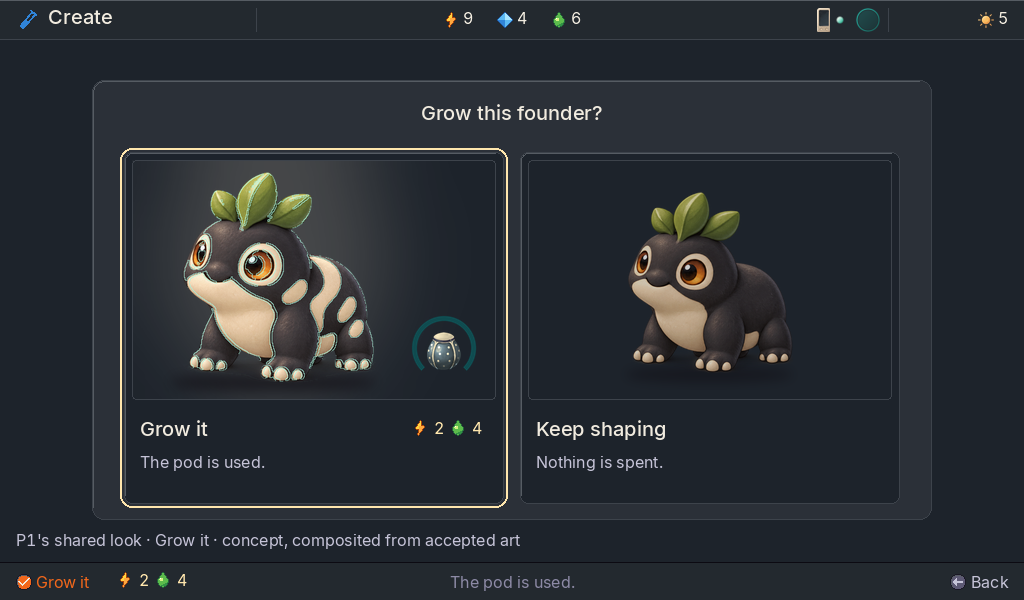
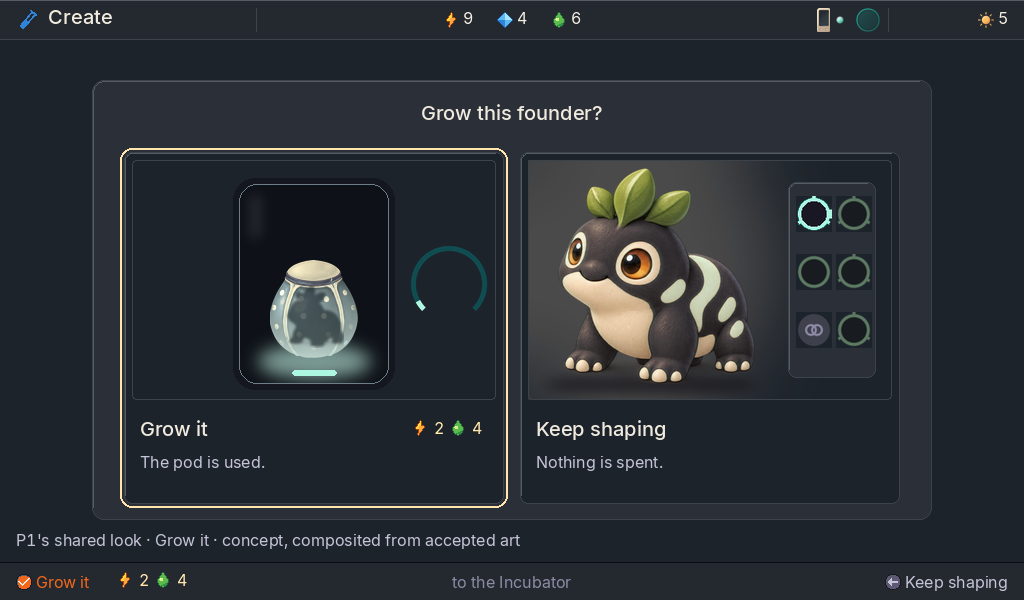
T-20261016-170: Grow paints two outcomes, light on the changed parts, the bottom line per T-181

diff --git a/results/T-20261016-170/make-p1.py b/results/T-20261016-170/make-p1.py
@@ -105,42 +105,84 @@ def scene_keep(w, h):
     return bg
 
 
-def scene_grow(w, h):
-    """Grow it: the founder you made, standing in the bench's scanning recess, lit; the parts you changed catch
-    the scan light (mint). The pod, sealed in its ring, goes to the Incubator."""
-    bg = Image.new('RGBA', (w, h), C['ground'] + (255,))
-    pool = Image.new('L', (w, h), 0)
-    ImageDraw.Draw(pool).ellipse((w // 2 - 150, -40, w // 2 + 70, h - 10), fill=46)
-    light = Image.new('RGBA', (w, h), (255, 236, 210, 0)); light.putalpha(pool.filter(ImageFilter.GaussianBlur(40)))
-    bg.alpha_composite(light)
-    made, plain = src('rich-marked-300x310.png'), src('rich-plain-300x310.png')
+def changed_light(made, plain, strength=0.42):
+    """The bench's scan light falling on the parts you changed: a soft mint wash over the changed areas,
+    computed from the made and plain founders (no outline, no glow beyond the part)."""
     diff = np.abs(np.asarray(made, dtype=int)[..., :3] - np.asarray(plain, dtype=int)[..., :3]).max(axis=2) > 40
-    m = Image.fromarray((diff * 255).astype('uint8')).filter(ImageFilter.MaxFilter(3))
-    edge = ImageChops.subtract(m, m.filter(ImageFilter.MinFilter(3)))
+    m = Image.fromarray((diff * 255).astype('uint8')).filter(ImageFilter.GaussianBlur(2.2))
     a = np.asarray(made, dtype=float)
-    e = np.asarray(edge, dtype=float)[..., None] / 255 * 0.7
-    a[..., :3] = a[..., :3] * (1 - e) + np.array(C['mint']) * e
-    made = Image.fromarray(np.clip(a, 0, 255).astype('uint8'), 'RGBA').crop(made.getbbox())
-    made = made.resize((round(made.width * 0.72), round(made.height * 0.72)), Image.LANCZOS)
-    px, py = (w - made.width) // 2 - 40, h - made.height - 14
-    sh = contact(made.width, 18, 0.65)
-    bg.alpha_composite(sh, (px + made.width // 2 - sh.width // 2, py + made.height - sh.height // 2 - 4))
-    bg.alpha_composite(made, (px, py))
+    k = np.asarray(m, dtype=float)[..., None] / 255 * strength * (a[..., 3:4] / 255)
+    lum = a[..., :3].mean(axis=2, keepdims=True) / 255
+    a[..., :3] = a[..., :3] + (np.array(C['mint']) - a[..., :3]) * k * (0.5 + 0.5 * lum)
+    return Image.fromarray(np.clip(a, 0, 255).astype('uint8'), 'RGBA')
+
+
+def scene_grow(w, h):
+    """Grow it: the made founder sealed into its pod, the pod clamped upright in the Incubator's candling chamber,
+    a recess of the slate face behind matte glass, at first candling light: the lamp below shines up through the
+    shell and the founder's form shows inside. Cool, dark, enclosed, the pod small in the chamber."""
+    bg = Image.new('RGBA', (w, h), C['ground'] + (255,))
+    d = ImageDraw.Draw(bg)
+    cx, cy, cw, chh = w // 2, h // 2 + 4, 150, 200
+    x0, y0 = cx - cw // 2, cy - chh // 2
+    d.rounded_rectangle((x0 - 6, y0 - 6, x0 + cw + 5, y0 + chh + 5), 22, fill=(20, 24, 30))      # the recess
+    d.rounded_rectangle((x0, y0, x0 + cw - 1, y0 + chh - 1), 18, fill=(14, 18, 24))              # the chamber
+    pod = loika_pod(sealed=True).resize((88, 112), Image.LANCZOS)
+    px, py = cx - 44, y0 + chh - 112 - 26
+    # candling: the lamp's light passing up through the shell, brightest at its base
+    a = np.asarray(pod, dtype=float)
+    yy = np.linspace(0, 1, a.shape[0])[:, None, None] ** 1.4
+    a[..., :3] = a[..., :3] + (np.array([226, 252, 242]) - a[..., :3]) * (0.78 * yy)
+    pod = Image.fromarray(np.clip(a, 0, 255).astype('uint8'), 'RGBA')
+    made = src('rich-marked-300x310.png')
+    made = made.crop(made.getbbox()).resize((60, 62), Image.LANCZOS)
+    sil = Image.new('RGBA', made.size, (34, 46, 50, 0)); sil.putalpha(made.getchannel('A').point(lambda v: int(v * 0.72)))
+    inner = Image.new('RGBA', pod.size, (0, 0, 0, 0)); inner.alpha_composite(sil.filter(ImageFilter.GaussianBlur(1.2)), (14, 40))
+    inner.putalpha(ImageChops.multiply(inner.getchannel('A'), pod.getchannel('A')))
+    pod.alpha_composite(inner)
+    # the lamp and its pool, inside the chamber only
+    pool = Image.new('L', (w, h), 0)
+    ImageDraw.Draw(pool).ellipse((cx - 56, y0 + chh - 40, cx + 56, y0 + chh - 6), fill=150)
+    lamp = Image.new('RGBA', (w, h), (200, 250, 236, 0)); lamp.putalpha(pool.filter(ImageFilter.GaussianBlur(8)))
+    clip = Image.new('L', (w, h), 0); ImageDraw.Draw(clip).rounded_rectangle((x0, y0, x0 + cw - 1, y0 + chh - 1), 18, fill=255)
+    lamp.putalpha(ImageChops.multiply(lamp.getchannel('A'), clip))
+    bg.alpha_composite(lamp)
+    d.rounded_rectangle((cx - 22, y0 + chh - 14, cx + 22, y0 + chh - 9), 2, fill=C['mint'])        # the lamp
+    d.rectangle((cx - 30, py + 96, cx + 30, py + 102), fill=(70, 78, 86))                           # the clamp
+    bg.alpha_composite(pod, (px, py))
+    # the glass: a matte edge and one soft highlight top left
+    d.rounded_rectangle((x0, y0, x0 + cw - 1, y0 + chh - 1), 18, outline=(110, 126, 136))
+    hl = Image.new('L', (w, h), 0); ImageDraw.Draw(hl).rounded_rectangle((x0 + 10, y0 + 10, x0 + 22, y0 + 54), 6, fill=22)
+    glass = Image.new('RGBA', (w, h), (255, 255, 255, 0)); glass.putalpha(hl.filter(ImageFilter.GaussianBlur(5))); bg.alpha_composite(glass)
+    bg.alpha_composite(ring_inset(84, 0.06), (x0 + cw + 18, cy - 42))
     return bg
 
 
 def scene_shape(w, h):
-    """Keep shaping: the pod's own founder, plain, on the bench, under the bench's quiet light; nothing changes."""
+    """Keep shaping: the founder you made, as it is now, standing big in its recess on the bench under the warm key
+    light; the bench's scan light falls on the parts you changed; beside it the lit rack, its genes still open."""
     bg = Image.new('RGBA', (w, h), C['ground'] + (255,))
-    plain = src('rich-plain-300x310.png')
-    plain = plain.crop(plain.getbbox())
-    plain = plain.resize((round(plain.width * 0.62), round(plain.height * 0.62)), Image.LANCZOS)
-    a = np.asarray(plain, dtype=float); a[..., :3] *= 0.82
-    plain = Image.fromarray(np.clip(a, 0, 255).astype('uint8'), 'RGBA')
-    px, py = (w - plain.width) // 2, h - plain.height - 22
-    sh = contact(plain.width, 16, 0.5)
-    bg.alpha_composite(sh, (px + plain.width // 2 - sh.width // 2, py + plain.height - sh.height // 2 - 4))
-    bg.alpha_composite(plain, (px, py))
+    pool = Image.new('L', (w, h), 0)
+    ImageDraw.Draw(pool).ellipse((-30, -40, w - 120, h + 10), fill=52)
+    light = Image.new('RGBA', (w, h), (255, 228, 196, 0)); light.putalpha(pool.filter(ImageFilter.GaussianBlur(36)))
+    bg.alpha_composite(light)
+    made = changed_light(src('rich-marked-300x310.png'), src('rich-plain-300x310.png'))
+    made = made.crop(made.getbbox())
+    made = made.resize((round(made.width * 0.74), round(made.height * 0.74)), Image.LANCZOS)
+    px, py = 18, h - made.height - 12
+    sh = contact(made.width, 18, 0.65)
+    bg.alpha_composite(sh, (px + made.width // 2 - sh.width // 2, py + made.height - sh.height // 2 - 4))
+    bg.alpha_composite(made, (px, py))
+    d = ImageDraw.Draw(bg)
+    rx = w - 104
+    pane(d, rx, 22, 88, h - 44, 8, 'panel')
+    genes = ['genome-gene-open-lit-40x40.png', 'genome-gene-open-40x40.png', 'genome-gene-only-40x40.png',
+             'genome-gene-open-40x40.png', 'genome-gene-closed-40x40.png', 'genome-gene-open-40x40.png']
+    for n, g in enumerate(genes):
+        gx, gy = rx + 6 + (n % 2) * 40, 34 + (n // 2) * 58
+        well = Image.new('RGBA', (36, 36), C['ground'] + (255,))
+        bg.alpha_composite(well, (gx + 2, gy + 2))
+        bg.alpha_composite(src(g).resize((36, 36), Image.LANCZOS), (gx + 2, gy + 2))
     return bg
 
 
@@ -184,7 +226,7 @@ def screen(topbar_from, title, stage=True):
     return im, d
 
 
-def bottom(im, d, verb, price=None, context=''):
+def bottom(im, d, verb, price=None, context='', back='Back'):
     im.alpha_composite(src('frame-cap-confirm-16.png'), (16, 574))
     d.text((36, 572), verb, font=F16, fill=C['orange'])
     x = 36 + F16.getlength(verb) + 24
@@ -192,8 +234,8 @@ def bottom(im, d, verb, price=None, context=''):
         im.alpha_composite(price, (int(x), 570))
     if context:
         d.text((512, 582), context, font=F16, fill=C['mist'], anchor='mm')
-    im.alpha_composite(src('frame-cap-back-16.png'), (int(1008 - 4 - F16.getlength('Back') - 16), 574))
-    d.text((1008, 582), 'Back', font=F16, fill=C['fog'], anchor='rm')
+    im.alpha_composite(src('frame-cap-back-16.png'), (int(1008 - 4 - F16.getlength(back) - 16), 574))
+    d.text((1008, 582), back, font=F16, fill=C['fog'], anchor='rm')
 
 
 def label(d, s):
@@ -246,41 +288,12 @@ ret, keep = scene_return(W, H), scene_keep(W, H)
 panel_p1(None, 'Return Pip?', [(ret, 'Return it', essence_plus2(), 'Gone for good. Its place will remember it.', True, False),
                                (keep, 'Keep Pip', None, 'Stays with you.', False, True)],
          'habitat-rest.png', 'P1-return.png', 'P1 · two windows · Return to the wild · concept, composited from accepted art',
-         ('Keep Pip', None, 'Stays with you.'))
+         ('Keep Pip', None, '', 'Keep Pip'))
 
 grow, shape = scene_grow(W, H), scene_shape(W, H)
 gp = grow_price()
-gi = grow.copy()
-gi.alpha_composite(ring_inset(72, 0.0), (W - 88, H - 88))
-gi.alpha_composite(loika_pod().resize((34, 43), Image.LANCZOS), (W - 88 + 19, H - 88 + 15))
-panel_p1(None, 'Grow this founder?', [(gi, 'Grow it', gp, 'The pod is used.', False, True),
+panel_p1(None, 'Grow this founder?', [(grow, 'Grow it', gp, 'The pod is used.', False, True),
                                       (shape, 'Keep shaping', None, 'Nothing is spent.', False, False)],
          'create-shape.png', 'P1-grow.png', "P1's shared look · Grow it · concept, composited from accepted art",
-         ('Grow it', gp, 'The pod is used.'), stage=False)
+         ('Grow it', gp, 'to the Incubator', 'Keep shaping'), stage=False)
 
-# P2: one scene, two halves
-im, d = screen('habitat-rest.png', 'Return Pip?')
-label(d, 'P2 · one scene, two halves · Return to the wild · concept, composited from accepted art')
-pane(d, 92, 80, 840, 440, 12, 'panel')
-d.text((512, 112), 'Return Pip?', font=F20, fill=C['bone'], anchor='mm')
-pane(d, 124, 152, 776, 352, 8, 'ground')
-L, R = scene_return(380, 240), scene_keep(380, 240)
-both = Image.new('RGBA', (760, 240))
-both.alpha_composite(L, (0, 0)); both.alpha_composite(R, (380, 0))
-dim = Image.new('RGBA', (380, 240), C['ground'] + (130,))
-both.alpha_composite(dim, (0, 0))   # the unfocused half, dimmed (Keep is focused)
-im.alpha_composite(both, (132, 160))
-d.line((132 + 380, 160, 132 + 380, 399), fill=C['hairline'])
-d.text((140, 416), 'Return it', font=F20, fill=C['bone'])
-im.alpha_composite(essence_plus2(), (132 + 380 - 16 - 52, 418))
-d.text((140, 452), 'Gone for good. Its place will remember it.', font=F16, fill=C['coral'])
-cx = 140 + int(F16.getlength('Gone for good. Its place will remember it.')) + 10
-d.ellipse((cx, 453, cx + 15, 468), fill=C['red'])
-d.line((cx + 4, 457, cx + 11, 464), fill=(255, 255, 255), width=2)
-d.line((cx + 11, 457, cx + 4, 464), fill=(255, 255, 255), width=2)
-d.text((528, 416), 'Keep Pip', font=F20, fill=C['bone'])
-d.text((528, 452), 'Stays with you.', font=F16, fill=C['fog'])
-d.rounded_rectangle((132 + 380 - 2, 156, 132 + 760 + 3, 504), 10, outline=C['focus'], width=2)
-bottom(im, d, 'Keep Pip', None, 'Stays with you.')
-im.convert('RGB').save(os.path.join(OUT, 'P2-return.png'), optimize=True)
-print('P2-return.png')

diff --git a/results/T-20261016-170.md b/results/T-20261016-170.md
@@ -41,12 +41,25 @@ The bottom line follows §4: the ✓ cap with the verb (and price), the context,
 
 Run: `python3 results/T-20261016-170/make-p1.py <src> <fonts> results/T-20261016-170` printed all three files. Every image was checked by eye at 1×.
 
+## Update: both gates' fixes, one push
+This answers `results/T-20261016-170-ui-art.md` (Return and the pane pass, P2 retired, Grow blocking) and `results/T-20261016-170-game-design.md` (Return passes, Grow fails on meaning, the bottom line).
+1. **Grow paints two outcomes, not the founder twice.** The windows now differ in setting, scale and light, as Return's do:
+   - **Grow it:** the made founder sealed into its pod. The Loika's own shell is clamped upright in the Incubator's candling chamber, a recess of the slate face behind matte glass, at first candling light. The lamp below shines up through the shell, the founder's form shows inside, and the light stays within the chamber. The `mint` ring beside it has its first stud lit. Cool, dark and enclosed, with the pod small.
+   - **Keep shaping:** the founder you made, as it is now (your edits kept, per the corrected §6.1), standing big in its recess under the bench's warm key light. Beside it is the lit rack, its genes in their wells, still open. Warm, open and close.
+2. **The changed parts: light, not an outline.** The bench's scan light now falls on exactly the changed markings, as a soft `mint` wash computed from the made and plain founders. There is no outline and no glow beyond the part.
+3. **The bottom line (T-181 and the panel spec):**
+   - ← reads the safe option's verb: "Keep Pip" on Return, "Keep shaping" on Grow.
+   - The context is "to the Incubator" on Grow it and empty on Return.
+   - The window's line is no longer repeated.
+
+P2 is retired: `P2-return.png` stays as the record and is no longer generated. Run: `python3 results/T-20261016-170/make-p1.py <src> <fonts> results/T-20261016-170` printed `P1-return.png` and `P1-grow.png`. Both were checked by eye at 1×.
+
 ## Goldens
 None. These are concepts for the creative director to place in the device sheet beside their neighbours.
 
 ## Parked
 Nothing refused. Owed and open:
-1. **Return's pose.** Pip has no back three-quarter pose in our art, so "seen from behind, looking back once" is carried by direction, scale and the footprints. A painted back-three-quarter walk key would make it exact; it needs a painting decision from the creative director (and a cap, if paid).
-2. **Grow's two windows** differ by light, marks and the pod more than by scene. If the gate wants more difference, the Grow window could show the pod already in the Incubator's ring, at the cost of the founder's size.
+1. **Return's pose.** (Still owed.) Pip has no back three-quarter pose in our art, so "seen from behind, looking back once" is carried by direction, scale and the footprints. A painted back-three-quarter walk key would make it exact; it needs a painting decision from the creative director (and a cap, if paid).
+2. **Grow's two windows** are resolved; see the update above.
 3. **Labels:** each image carries its concept label in the stage's free strip, above the bottom line.
 4. **Inputs:** the masters-pods keys and the pond backdrop are concepts and slices, not yet the build's masters. The pod is the renderer's own layers.
